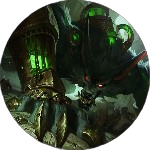
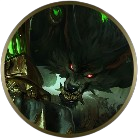
Ajout des classes personnages et suppresion IA

diff --git a/game.py b/game.py
@@ -3,6 +3,8 @@ import random
 
 from unit import *
 from warwick import *
+from xerath import *
+from missfortune import *
 
 class Game:
     """
@@ -29,13 +31,13 @@ class Game:
             La surface de la fenêtre du jeu.
         """
         self.screen = screen
-        self.player_units = [Warwick(0, 0, 'player')]
+        self.player_units = [Warwick(6, 1, 'player'), Xerath(7,1, 'player'), MissFortune(8,1, 'player')]
 
-        self.enemy_units = [Unit(7, 7, 8, 1, 'enemy')]
+        self.enemy_units = [Warwick(6, 13, 'player'), Xerath(7,13, 'player'), MissFortune(8,13, 'player')]
 
     def handle_player_turn(self):
         """Tour du joueur"""
-        for selected_unit in self.player_units:
+        for selected_unit in self.player_units :
 
             # Tant que l'unité n'a pas terminé son tour
             has_acted = False
@@ -80,20 +82,49 @@ class Game:
                             selected_unit.is_selected = False
 
     def handle_enemy_turn(self):
-        """IA très simple pour les ennemis."""
-        for enemy in self.enemy_units:
+        """Tour du joueur"""
+        for selected_unit in self.enemy_units:
+            has_acted = False
+            selected_unit.is_selected = True
+            self.flip_display()
+            while not has_acted:
 
-            # Déplacement aléatoire
-            target = random.choice(self.player_units)
-            dx = 1 if enemy.x < target.x else -1 if enemy.x > target.x else 0
-            dy = 1 if enemy.y < target.y else -1 if enemy.y > target.y else 0
-            enemy.move(dx, dy)
+                # Important: cette boucle permet de gérer les événements Pygame
+                for event in pygame.event.get():
 
-            # Attaque si possible
-            if abs(enemy.x - target.x) <= 1 and abs(enemy.y - target.y) <= 1:
-                enemy.attack(target)
-                if target.health <= 0:
-                    self.player_units.remove(target)
+                    # Gestion de la fermeture de la fenêtre
+                    if event.type == pygame.QUIT:
+                        pygame.quit()
+                        exit()
+
+                    # Gestion des touches du clavier
+                    if event.type == pygame.KEYDOWN:
+
+                        # Déplacement (touches fléchées)
+                        dx, dy = 0, 0
+                        if event.key == pygame.K_LEFT:
+                            dx = -1
+                        elif event.key == pygame.K_RIGHT:
+                            dx = 1
+                        elif event.key == pygame.K_UP:
+                            dy = -1
+                        elif event.key == pygame.K_DOWN:
+                            dy = 1
+
+                        selected_unit.move(dx, dy)
+                        self.flip_display()
+
+                        # Attaque (touche espace) met fin au tour
+                        if event.key == pygame.K_SPACE:
+                            for player in self.player_units:
+                                if abs(selected_unit.x - player.x) <= 1 and abs(selected_unit.y - player.y) <= 1:
+                                    selected_unit.attack(player)
+                                    if player.health <= 0:
+                                        self.player_units.remove(player)
+
+                            has_acted = True
+                            selected_unit.is_selected = False
+
 
     def flip_display(self):
         """Affiche le jeu."""

diff --git a/missfortune.py b/missfortune.py
@@ -2,7 +2,7 @@ import pygame
 
 from unit import *
 
-class Warwick(Unit):
+class MissFortune(Unit):
     
     def __init__(self, x, y, team):
         
@@ -15,7 +15,7 @@ class Warwick(Unit):
     def draw(self, screen):
         """Affiche l'unité sur l'écran."""
         
-        image = pygame.image.load("Warwick.png").convert_alpha()
+        image = pygame.image.load("MissFortune.png").convert_alpha()
         image = pygame.transform.scale(image,(CELL_SIZE, CELL_SIZE))
         
         if self.is_selected:

diff --git a/xerath.py b/xerath.py
@@ -2,7 +2,7 @@ import pygame
 
 from unit import *
 
-class Warwick(Unit):
+class Xerath(Unit):
     
     def __init__(self, x, y, team):
         
@@ -15,7 +15,7 @@ class Warwick(Unit):
     def draw(self, screen):
         """Affiche l'unité sur l'écran."""
         
-        image = pygame.image.load("Warwick.png").convert_alpha()
+        image = pygame.image.load("Xerath.png").convert_alpha()
         image = pygame.transform.scale(image,(CELL_SIZE, CELL_SIZE))
         
         if self.is_selected:

diff --git a/unit.py b/unit.py
@@ -2,8 +2,8 @@ import pygame
 import random
 
 # Constantes
-GRID_SIZE = 8
-CELL_SIZE = 100
+GRID_SIZE = 15
+CELL_SIZE = 60
 WIDTH = GRID_SIZE * CELL_SIZE
 HEIGHT = GRID_SIZE * CELL_SIZE
 FPS = 30
